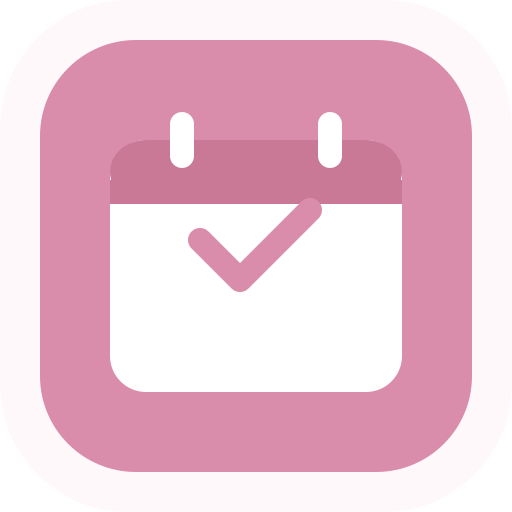
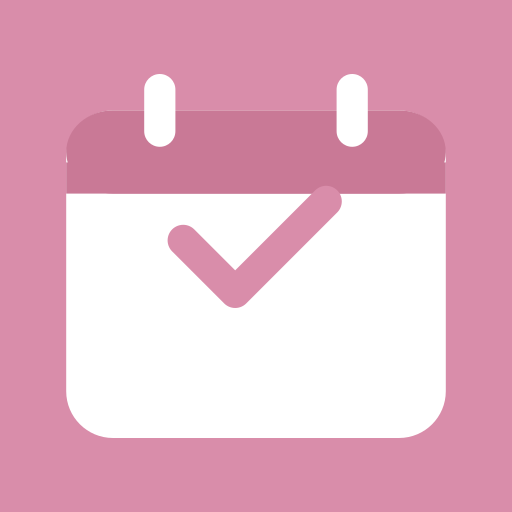
앱 아이콘을 가장자리까지 꽉 찬 모양으로 변경
연한 바깥 테두리와 투명 모서리를 없애고 달력을 키움. maskable 아이콘은 안전 영역 안에 유지.
아이콘 주소 버전 값을 바꿔 기존 캐시를 갱신.

Claude-Session: https://claude.ai/code/session_01VDivpu7HG7ZQsFBnqX7jhG

diff --git a/index.html b/index.html
@@ -8,9 +8,9 @@
     <meta property="og:title" content="미니어리 (Minially) · 심플 캘린더 & 할 일 플래너" />
     <meta property="og:description" content="캘린더, 할 일, 프로젝트를 통합 관리하는 미니멀 플래너 미니어리 (Minially)" />
     <link rel="canonical" href="https://minially.pages.dev/" />
-    <link rel="icon" type="image/svg+xml" href="%BASE_URL%icon.svg?v=minially-20261110" />
-    <link rel="icon" type="image/png" sizes="192x192" href="%BASE_URL%pwa-192x192.png?v=minially-20261110" />
-    <link rel="apple-touch-icon" sizes="180x180" href="%BASE_URL%apple-touch-icon.png?v=minially-20261110" />
+    <link rel="icon" type="image/svg+xml" href="%BASE_URL%icon.svg?v=minially-20261110-full" />
+    <link rel="icon" type="image/png" sizes="192x192" href="%BASE_URL%pwa-192x192.png?v=minially-20261110-full" />
+    <link rel="apple-touch-icon" sizes="180x180" href="%BASE_URL%apple-touch-icon.png?v=minially-20261110-full" />
     <meta name="application-name" content="미니어리" />
     <meta name="apple-mobile-web-app-title" content="미니어리" />
     <meta property="og:type" content="website" />
